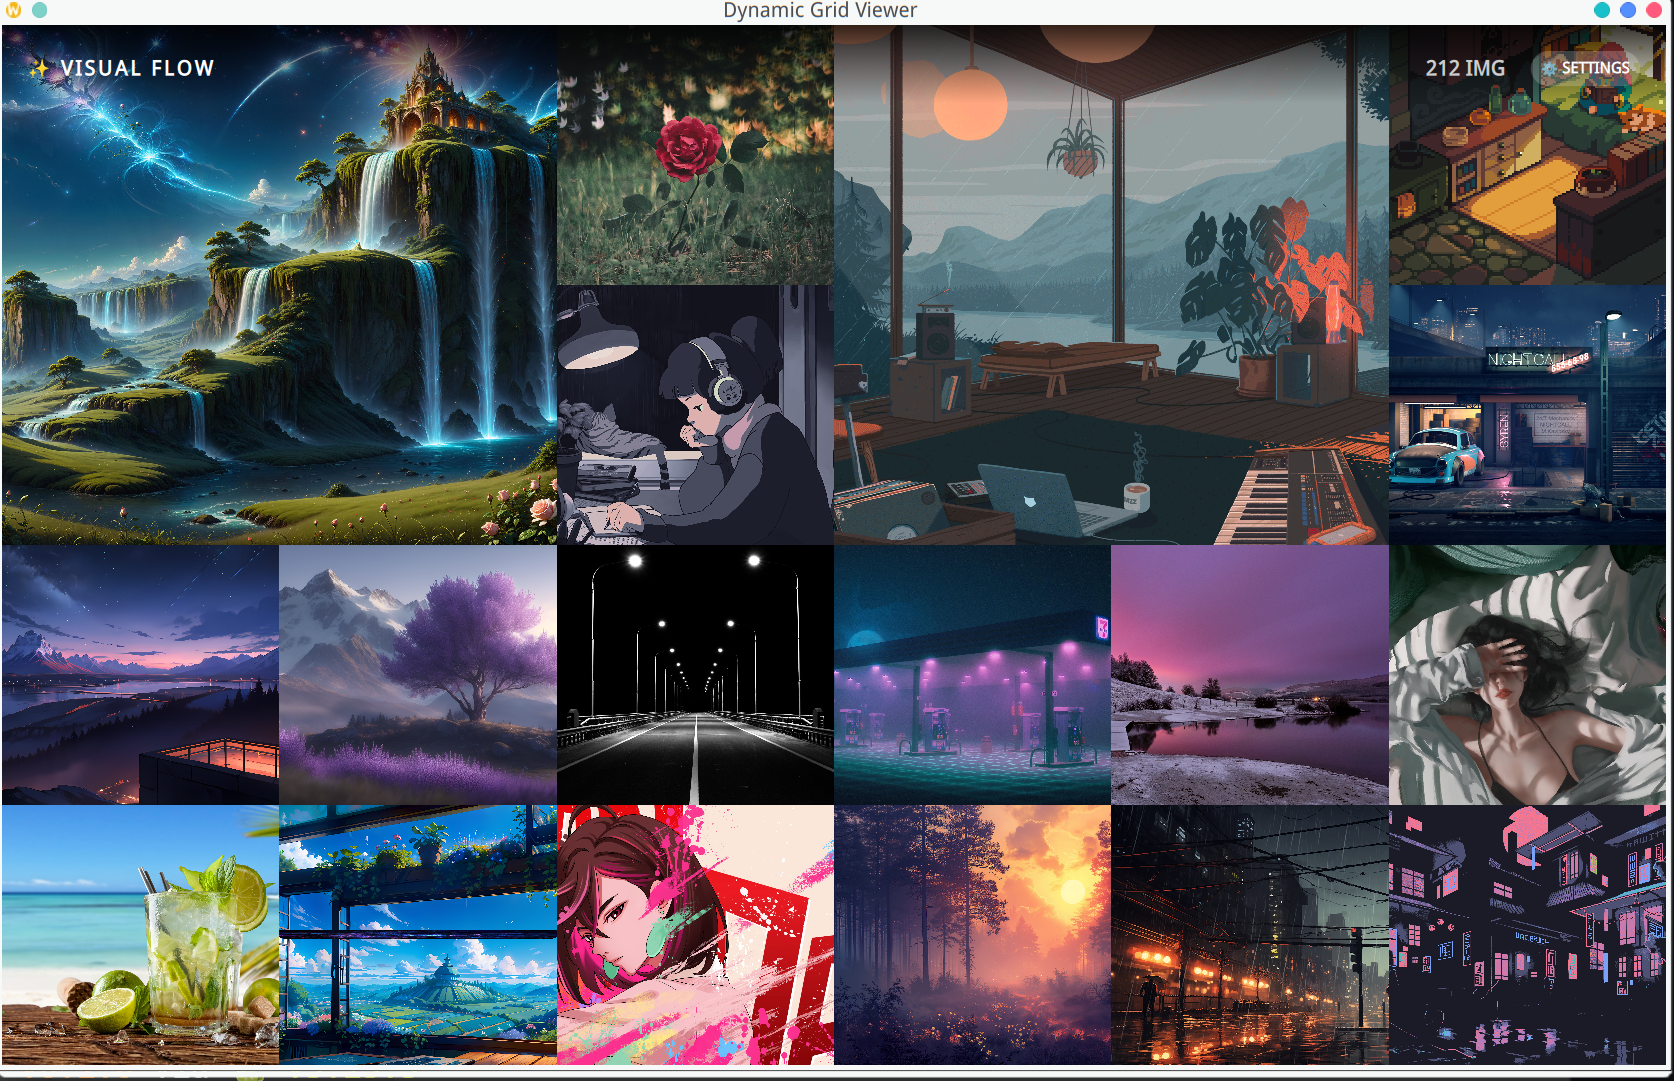
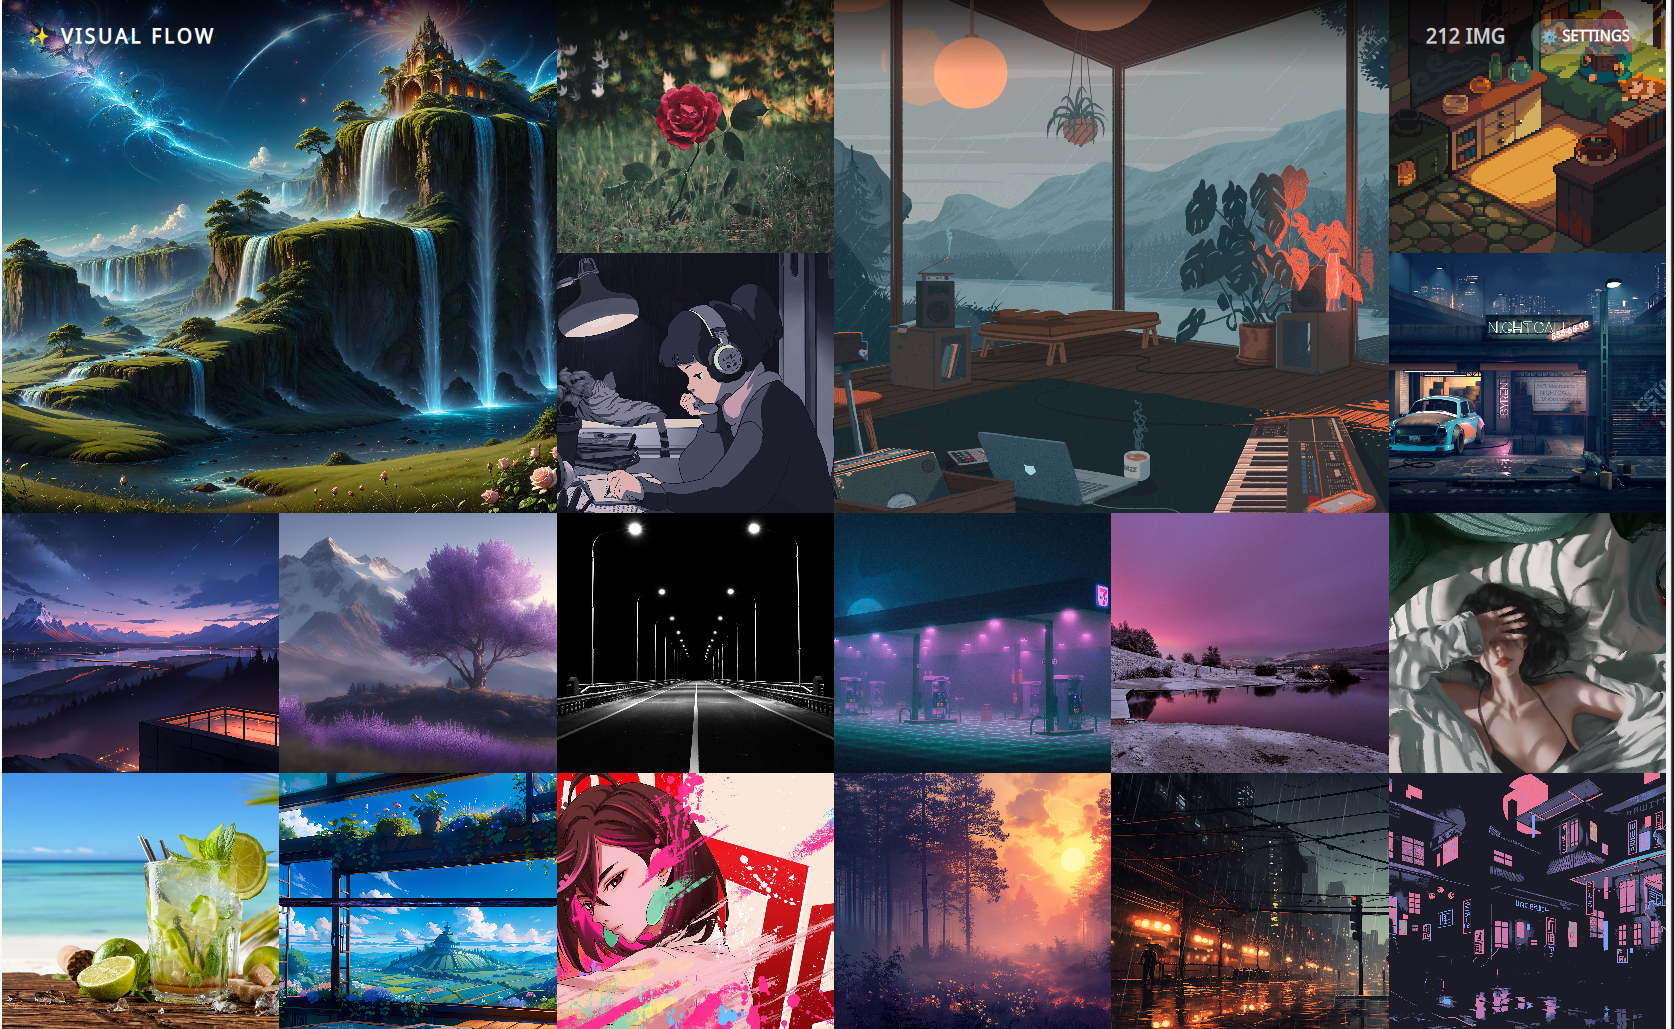
update window name

diff --git a/Main.qml b/Main.qml
@@ -10,7 +10,7 @@ Window {
     width: 1280
     height: 800
     color: "black"
-    title: "Dynamic Grid Viewer"
+    title: "CoolView"
     
     Shortcut { sequence: "F11";
         onActivated: mainWindow.visibility = (mainWindow.visibility === Window.FullScreen ? Window.Windowed : Window.FullScreen) }
